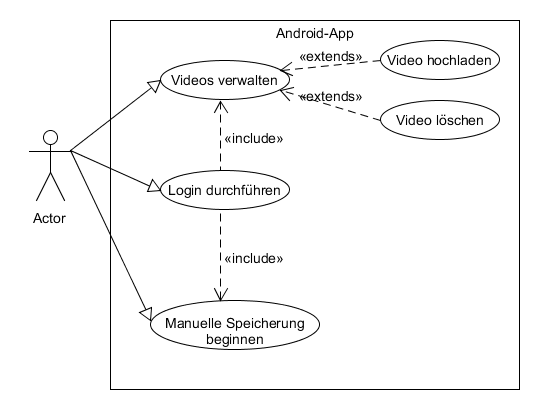
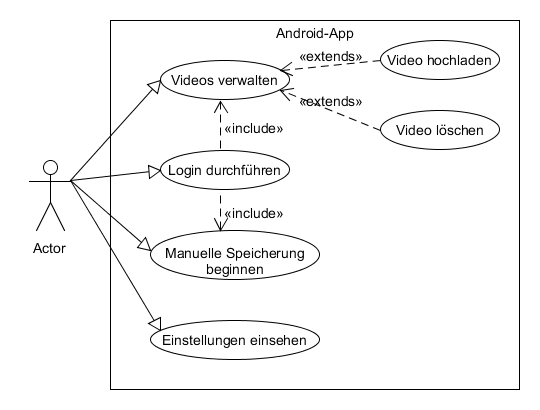
small fixes on various files

diff --git a/subtopicsFuncspec/Funktionale_Anforderungen.tex b/subtopicsFuncspec/Funktionale_Anforderungen.tex
@@ -19,7 +19,7 @@ Klickt ein Benutzer im Menü auf ``abmelden'', so wird er auf die Anmeldeansicht
 
 \item \label{fa:Beobachtungsmodus}\textbf{Ausführen des Beobachtungsmodus} \hfill \\
 Die Kamera kann sich bei aktiver Kamera in zwei Modi befinden: Im Beobachtungsmodus oder im Aufnahmemodus~\eqref{fa:Aufnahmemodus}.
-Im Beobachtungsmodus werden Kamerabilder nicht ~\eqref{fa:Persistieren} sondern nur der \gls{Ringpuffer}~\eqref{fa:Ringpuffer} beschrieben. Die \gls{G-Sensor}-Daten werden ausgewertet und es wird auf einen charakteristischen Ausschlag des G-Sensors ~\eqref{fa:automUebergang}, oder manuelles Auslösen ~\eqref{fa:manUebergang} gewartet.
+Im Beobachtungsmodus werden Kamerabilder nicht persistiert ~\eqref{fa:Persistieren} sondern nur der \gls{Ringpuffer}~\eqref{fa:Ringpuffer} beschrieben. Die \gls{G-Sensor}-Daten werden ausgewertet und es wird auf einen charakteristischen Ausschlag des G-Sensors ~\eqref{fa:automUebergang}, oder manuelles Auslösen ~\eqref{fa:manUebergang} gewartet.
 
 \item \label{fa:Statussymbol}\textbf{Anzeigen des Statussymbols} \hfill \\
 Der aktuelle Kameramodus wird dem Nutzer durch ein blinkendes Statussymbol am Bildschirmrand visualisiert. Im Beobachtungsmodus hat es eine grüne Farbe, im Aufnahmemodus hat es eine rote Farbe.
@@ -172,7 +172,7 @@ Zum Anmelden auf die Webseite müssen Benutzername und Passwort korrekt in die e
 Befindet sich der Nutzer in einer anderen Ansicht als der Anmeldeansicht, so befindet sich am linken Rand der Websteite die Menüleiste. Dort kann der Nutzer die Liste der \glslink{anonymisieren}{anonymisierten} Videos~\eqref{fa:anonymVidAnzeigen} in seinem Account bearbeiten~\eqref{fa:accBearb}, die Datenschutzerklärung einsehen~\eqref{fa:datenschutzWeb}, das Impressum einsehen~\eqref{fa:impressumWeb}, oder sich abmelden~\eqref{fa:weblogOut}.
 
 \item \label{fa:anonymVidAnzeigen}\textbf{Anzeigen der Liste der \glslink{anonymisieren}{anonymisierten} Videos} \hfill \\
-Hat sich ein Benutzer eingeloggt, wird er automatisch auf diese Ansicht weitergeleitet. Hier werden die, vom Nutzer hochgeladenen Videos chronologisch aufgelistet. Der Nutzer kann Videos herunterladen~\eqref{fa:anonymVidherunt}, löschen~\eqref{fa:anonymVidlösch}, ein Preview einsehen~\eqref{fa:anonymVidprev}, oder die Videoinformationen einsehen~\eqref{fa:anonymViddaten}.
+Hat sich ein Benutzer eingeloggt, wird er automatisch auf diese Ansicht weitergeleitet. Hier werden die, vom Nutzer hochgeladenen Videos chronologisch aufgelistet. Der Nutzer kann Videos herunterladen~\eqref{fa:anonymVidherunt}, löschen~\eqref{fa:anonymVidlösch},  oder die Videoinformationen einsehen~\eqref{fa:anonymViddaten}.
 
 \item \label{fa:anonymVidherunt}\textbf{Herunterladen von \glslink{anonymisieren}{anonymisierten} Videos} \hfill \\
 Durch einen Klick auf das ``Herunterlade-Icon'' wird ein Speicherdialog geöffnet. Nachdem der Nutzer einen Speicherort ausgewählt hat, wird das Video heruntergeladen~\eqref{fa:vidHerunterladen}. Bricht der Benutzer den Dialog ab, bleibt er in der Listenansicht seiner Videos.
@@ -186,7 +186,7 @@ Klickt der Benutzer auf das ``Info-Symbol'', so wird ein Fenster geöffnet, das 
 \item \label{fa:accBearb}\textbf{Bearbeiten eines Benutzeraccounts} \hfill \\
 Klickt ein Benutzer in der Menüleiste auf ``Account bearbeiten'', so wird ein Fenster geöffnet, in dem der Nutzer auswählen kann, ob er seine Accountdaten ändern oder seinen Account löschen will.
 
-\item \label{fa:accLöschenWeb}\textbf{Account Löschen} \hfill \\
+\item \label{fa:accLöschenWeb}\textbf{Account löschen} \hfill \\
 Klickt der Benutzer im Fenster~\eqref{fa:accBearb} auf ``Account Löschen'', so öffnet sich ein Bestätigungsdialog, in dem der Benutzer gefragt wird, ob er wirklich seinen Account löschen will. Bestätigt dieser, so gelangt er zu der Anmeldeansicht~\eqref{fa:loginWeb} und sein Account wird gelöscht~\eqref{fa:accLöschen}.
 
 \item \label{fa:accDatBearb}\textbf{Accountdaten bearbeiten} \hfill \\

diff --git a/subtopicsFuncspec/Zielbestimmung.tex b/subtopicsFuncspec/Zielbestimmung.tex
@@ -16,6 +16,7 @@ Zur Realisierung kann das Produkt in drei Hauptbestandteile aufgegliedert werden
 	\item Der Straßenverkehr wird durch die \gls{Smartphone}kamera beobachtet.
 	\item Relevante Videodaten werden verschlüsselt abgespeichert.
 	\item Relevante Daten werden durch Auswertung der Sensordaten des \glspl{Smartphone} erkannt. Hierbei werden die Werte des G-Sensors ausgewertet.
+	\item Die Aufnahme kann manuell gestartet werden, auch wenn der \gls{G-Sensor} des Smartphones keinen Anlass dazu gibt.
 	\item Während der Aufnahme werden sämtliche Nutzereingaben und \gls{G-Sensor}daten ignoriert.
 	\item Es werden relevante \gls{Metadaten} mit den Videodaten abgespeichert.
 	\item Es wird ab dem \gls{App}start mit dem Beobachten des Straßenverkehrs begonnen.
@@ -72,12 +73,11 @@ Zur Realisierung kann das Produkt in drei Hauptbestandteile aufgegliedert werden
 	\item Falls es \gls{Android} zulässt, wird die Beobachtung auch ausgeführt, wenn sich die \gls{App} im Hintergrund befindet.
 	\item Sowohl Quer- als auch Hochformat werden unterstützt.
 	\item Die Beobachtung kann manuell gestartet und gestoppt werden.
-	\item Die Aufnahme kann manuell gestartet werden, auch wenn der \gls{G-Sensor} des Smartphones keinen Anlass dazu gibt.
 	\item Während der Aufnahme wird eine Möglichkeit angeboten, die Aufnahme abzubrechen.
 	\item Es können Nutzeraccounts angelegt werden.
 	\item Es können Nutzeraccounts verwaltet werden.
 	\item \glslink{anonymisieren}{Anonymisierte} Videodaten können vom Server gelöscht werden.
-	\item Push-Benachrichtignungen vom \gls{Web-Dienst} werden angezeigt.
+	\item \glspl{Push-Benachrichtigung} vom \gls{Web-Dienst} werden angezeigt.
 	\item Es können Hilfestellungen für die Bedienung der \gls{App} angezeigt werden.
 	\item \glslink{anonymisieren}{Anonymisierte} Videodaten können heruntergeladen werden.
 	\item \glslink{anonymisieren}{Anonymisierte} Videodaten die zum Download bereit stehen und sich nicht auf dem \gls{Smartphone} befinden werden aufgelistet.
@@ -93,7 +93,7 @@ Zur Realisierung kann das Produkt in drei Hauptbestandteile aufgegliedert werden
 	\renewcommand{\theenumi}{WK\arabic{enumi}0}
 	\setcounter{enumi}{199}
 	\item Die Zeit, die die \glslink{anonymisieren}{Anonymisierung} in Anspruch nehmen wird, wird geschätzt und an den Nutzer weitergeleitet.
-	\item Es wird eine Push-Benachrichtigung an das \gls{Smartphone} gesendet, sobald die Anonymisierung der Videodaten abgeschlossen ist.
+	\item Es wird eine \gls{Push-Benachrichtigung} an das \gls{Smartphone} gesendet, sobald die Anonymisierung der Videodaten abgeschlossen ist.
 	\item Videodaten werden maximal vier Wochen gespeichert.
 	\item Der Nutzer erhält eine Woche bevor ein Video glöscht wird eine \gls{E-Mail}-Banchrichtigung.
 	\end{enumerate}

diff --git a/subtopicsFuncspec/Systemmodelle.tex b/subtopicsFuncspec/Systemmodelle.tex
@@ -11,9 +11,10 @@ Der Benutzer kann hierbei mehrere Aktionen ausführen:
 \item Login durchführen
 \item Videos verwalten
 \item manuelle Speicherung beginnen
+\item Einstellungen einsehen
 \end{itemize}
 Um die \gls{App} zu nutzen, muss sich der Benutzer zunächst auf der \gls{App} einloggen. Nach dem Einloggen kann der Benutzer sein aufgenommenes Videomaterial verwalten. Er kann z.B. Videos löschen oder an den \gls{Web-Dienst} senden.
-Ist er in der Beobachtungsansicht, so ist es dem Nutzer möglich, die manuelle Speicherung des Videomaterials zu iniziieren.
+Ist er in der Beobachtungsansicht, so ist es dem Nutzer möglich, die manuelle Speicherung des Videomaterials zu iniziieren. Außerdem ist es dem Benutzer möglich, die aufnahmespezifischen Einstellungen einzusehen.
 
 \subsection{Bedienung der Website}
 \begin{center}
@@ -26,7 +27,7 @@ Der Benutzer kann hierbei mehrere Aktionen ausführen:
 \item Anmelden
 \item Registrieren
 \item Benutzerdaten ändern
-\item Verifizierung an Benutzer
+\item Videos herunterladen
 \end{itemize}
 Um die Website zu nutzen, muss sich der Benutzer zunächst registrieren. Nach der Registrierung schickt der \gls{Web-Dienst} eine Verifizierungs-\gls{E-Mail} an den Benutzer. Nach der Bestätigung kann er sich auf der Webseite anmelden, um deren Funktionen zu nutzen. Ist der Benutzer eingeloggt, kann er seine Benutzerdaten ändern und zuvor hochgeladene, nun anonymisierte Videodaten herunterladen.
 
@@ -47,7 +48,7 @@ Dieses Aktivitätsdiagramm beschreibt den Ablauf vom Start der \gls{App}, bis zu
 \begin{enumerate}
 \item Durch \gls{G-Sensor}
 \begin{description}
-\item Die vom \gls{G-Sensor} gemessene Beschleunigung ist größer als der festgelegten Richtwert.
+\item Die vom \gls{G-Sensor} gemessene Beschleunigung ist größer als der festgelegte Richtwert.
 \end{description}
 \item Manuell
 \begin{description}

diff --git a/subtopicsFuncspec/Anhang.tex b/subtopicsFuncspec/Anhang.tex
@@ -96,10 +96,10 @@ Als kryptographisches Verfahren werden hierbei AES für die symmetrische und RSA
   plural = Smartphones,
   description = {Ein Smartphone ist ein Mobilfunkgerät, das die Funktionalität eines herkömmlichen Mobiltelefons überschreitet und diese mit umfangreicheren Computer-Funktionalitäten erweitert},
 }
-\newglossaryentry{Push-Benarichtigung}
+\newglossaryentry{Push-Benachrichtigung}
 {
-  name = Push-Benarichtigung,
-  plural = Push-Benarichtigungen,
+  name = Push-Benachrichtigung,
+  plural = Push-Benachrichtigungen,
   description = {Push-Benachrichtigungen sind Meldungen, die ohne das Öffnen der jeweiligen \gls{App} auf dem \gls{Smartphone} erscheinen},
 }
 \newglossaryentry{Livestream}
